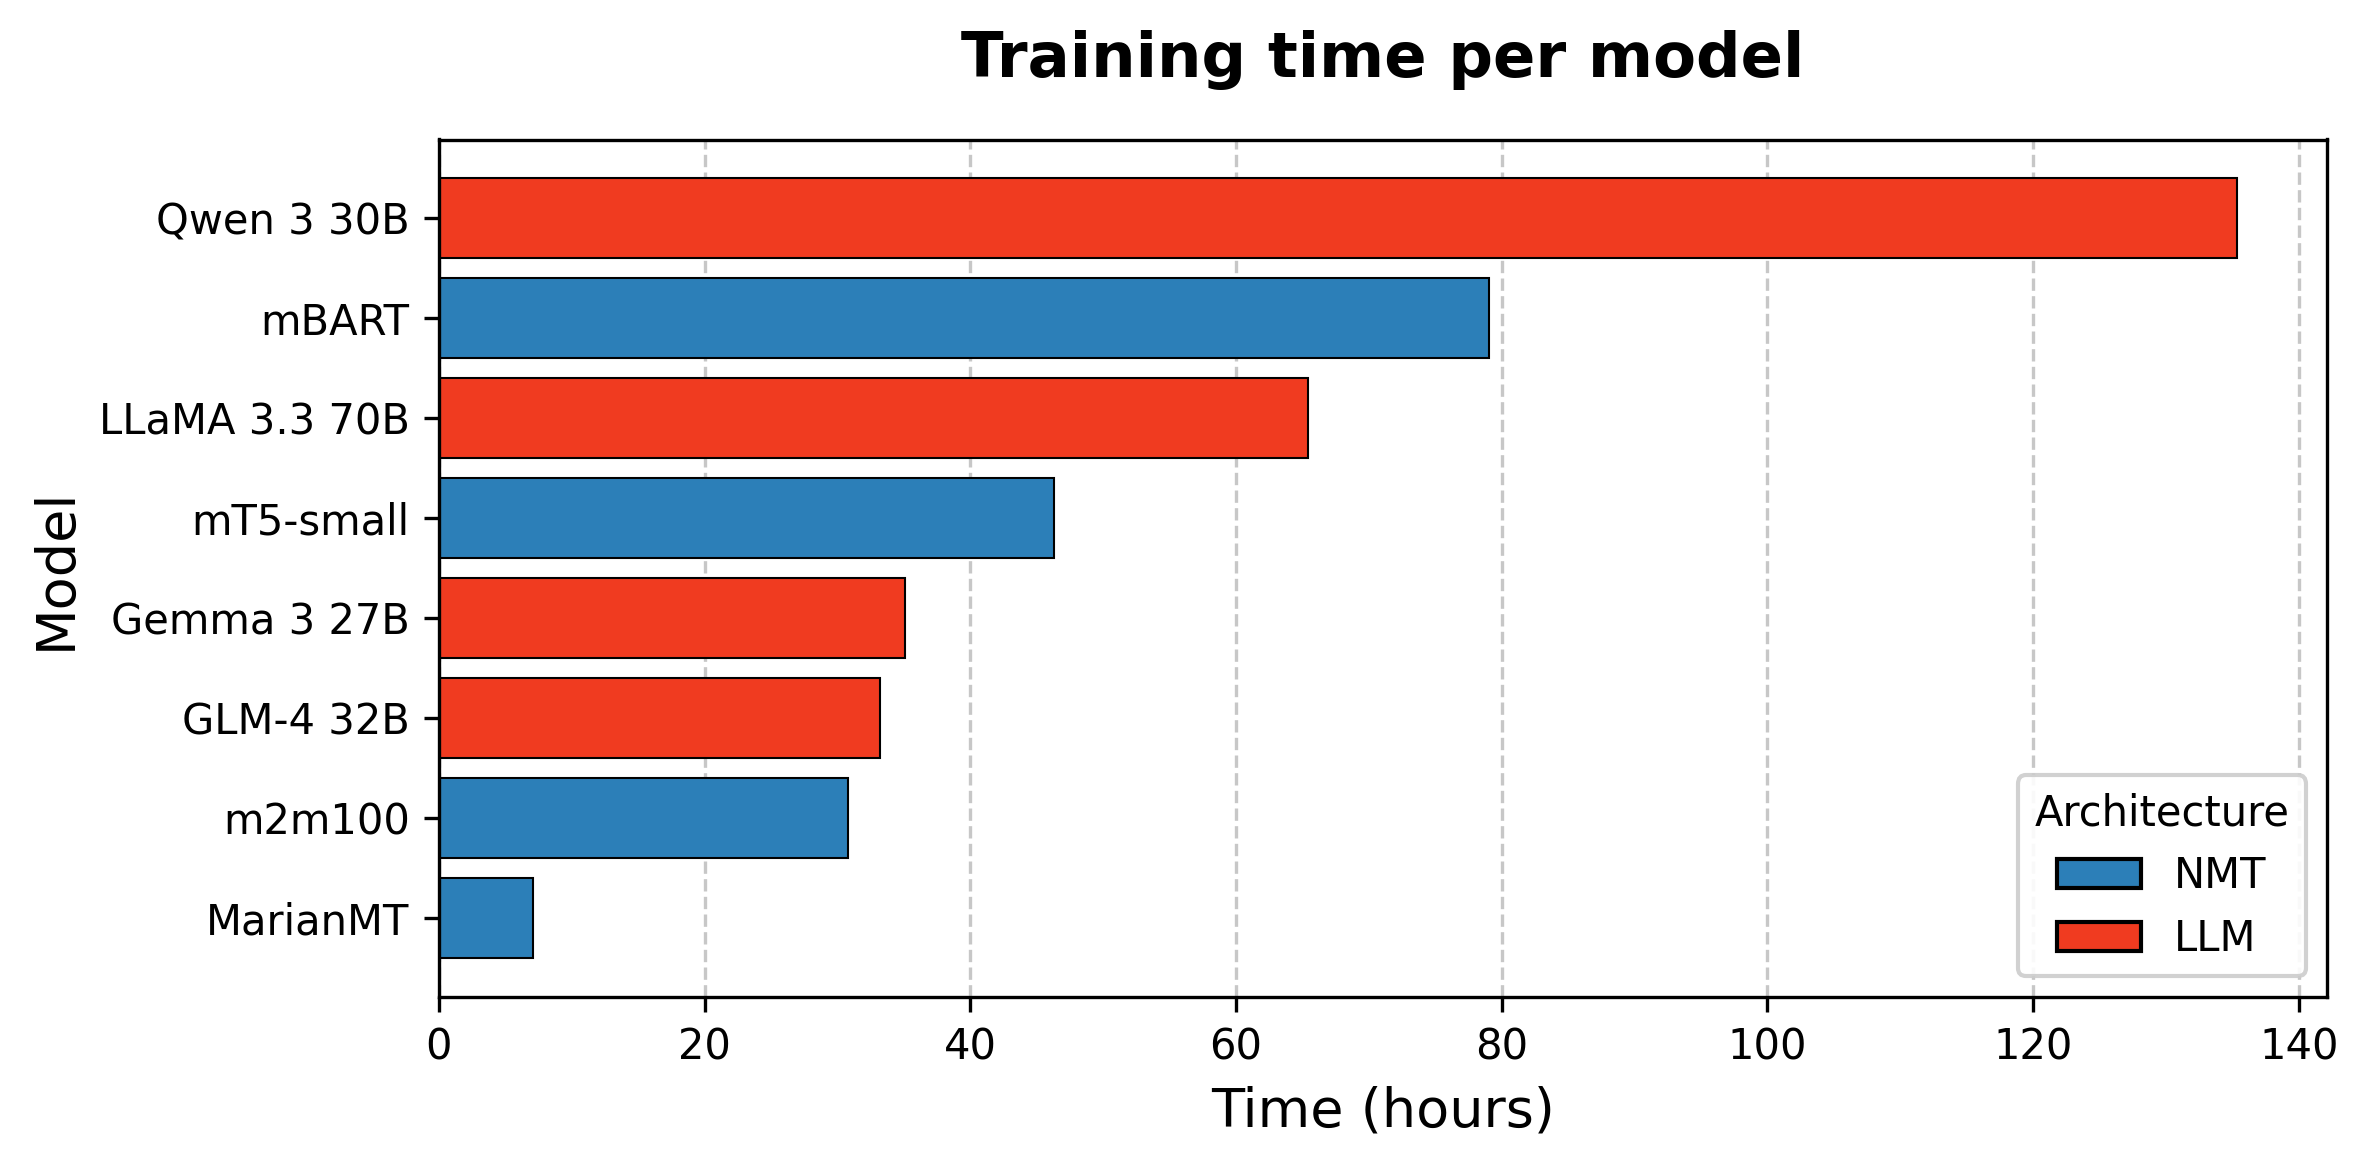
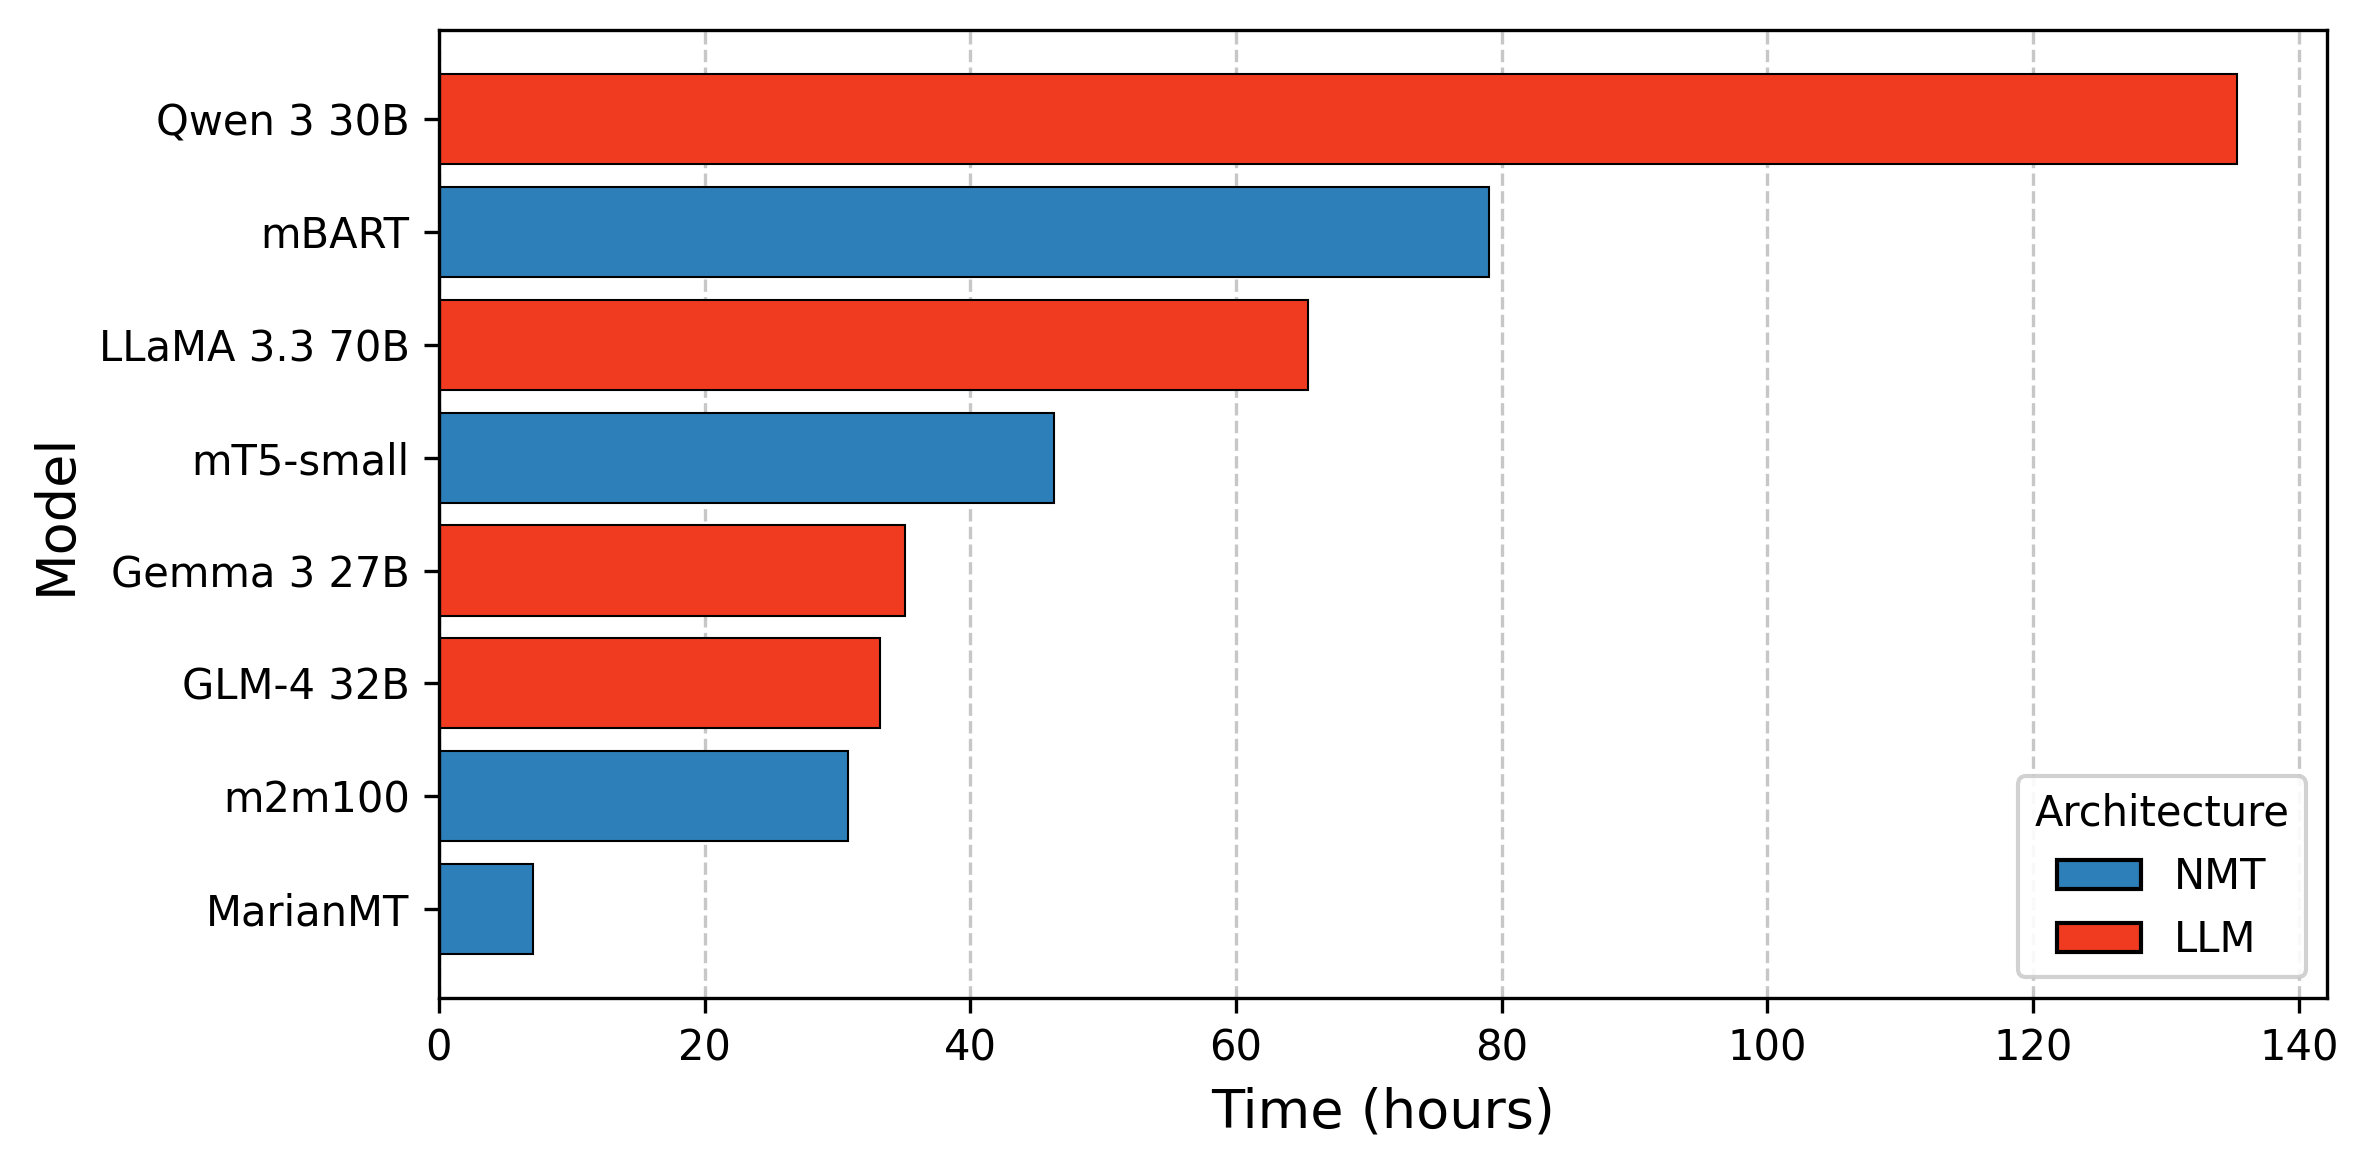
name change

diff --git a/evaluation/Tiempos/scripts/times.py b/evaluation/Tiempos/scripts/times.py
@@ -38,7 +38,7 @@ def generar_graficas():
             legend_title = 'Architecture'
             filename = 'training_en.png'
 
-        plt.title(title, fontsize=15, pad=15, fontweight='bold')
+        # plt.title(title, fontsize=15, pad=15, fontweight='bold')
         plt.xlabel(xlabel, fontsize=13)
         plt.ylabel(ylabel, fontsize=13)
 